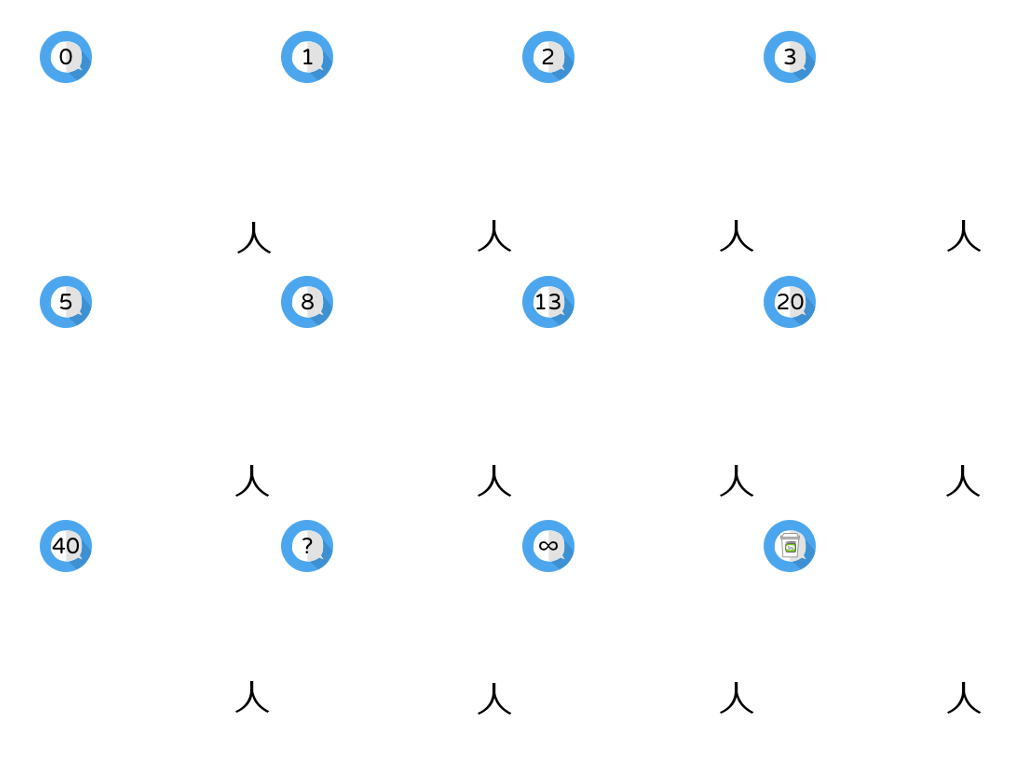
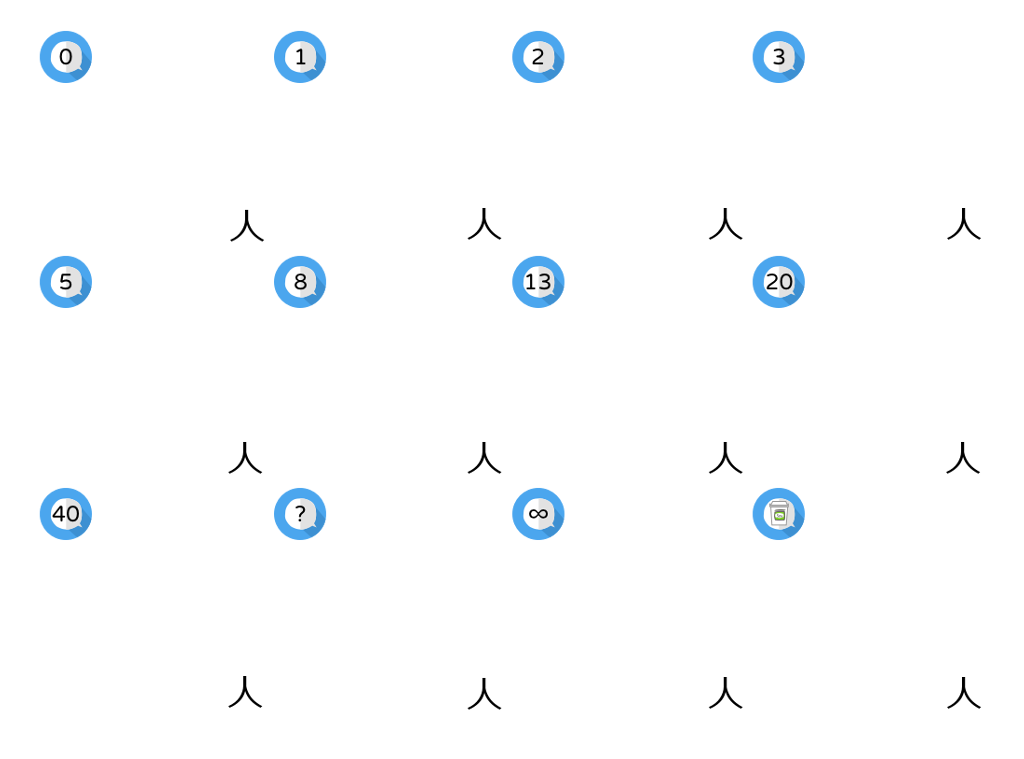
position adjust

diff --git a/app/utility.py b/app/utility.py
@@ -31,17 +31,17 @@ class NotFoundSourceError(Exception):
 
 entry = {
     '0':'+75+75',
-    '1':'+335+75',
-    '2':'+595+75',
-    '3':'+855+75',
-    '4':'+75+338',
-    '5':'+335+338',
-    '6':'+595+338',
-    '7':'+855+338',
-    '8':'+75+601',
-    '9':'+335+601',
-    '10':'+595+601',
-    '11':'+855+601',
+    '1':'+310+75',
+    '2':'+545+75',
+    '3':'+780+75',
+    '4':'+75+301',
+    '5':'+310+301',
+    '6':'+545+301',
+    '7':'+780+301',
+    '8':'+75+527',
+    '9':'+310+527',
+    '10':'+545+527',
+    '11':'+780+527',
 }
 
 def generate_voting_result_image(data):
